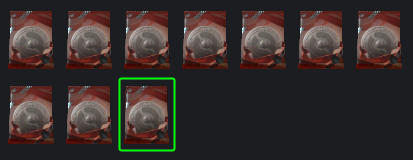
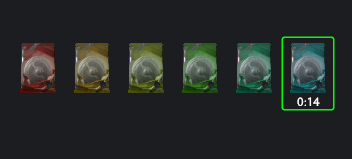
Booster colors, booster timer

diff --git a/src/content/panorama/scripts/custom_game/game_setup/game_setup.js b/src/content/panorama/scripts/custom_game/game_setup/game_setup.js
@@ -786,9 +786,31 @@ function OnGetDraftArray(table_name, key, data) {
 
         // Init booster draft
         if (optionValueList['lodOptionCommonGamemode'] == 6 && !boosterDraftInitiated && !data.boosterDraftDone) {
-            $("#boosterDraftBoosters").visible = true;
             $("#boosterDraftPile").visible = true;
             $("#pickingPhaseBuild").visible = false;
+
+            $("#boosterDraftBoosters").visible = true;
+            for (var i = 0; i < 10; i++) {
+                var newBooster = $.CreatePanel("Panel", $("#boosterDraftBoosters"), "booster"+(i+1)) 
+                newBooster.BLoadLayoutSnippet("BoosterPack");
+            }
+
+            $("#boosterDraftBoosters").Children()[$("#boosterDraftBoosters").Children().length-1].SetHasClass("current", true);
+
+            var boosters = $("#boosterDraftBoosters").Children();
+            var players = 0;
+            for (var i = 0; i < 23; i++) {
+                var info = Game.GetPlayerInfo(i);
+                if (info) {
+                    players++;
+                }
+            }
+
+            var i = 0;
+            for (var k in boosters) {
+                boosters[k].FindChildTraverse("booster").style.hueRotation = Math.floor(((360/players) * i)) + "deg;";
+                i++;
+            }
 
             var hookSet = function(setName) {
                 var enterNumber = 0;
@@ -4540,6 +4562,15 @@ function UpdateTimer() {
             }
         }
 
+        if (isBoosterDraftGamemode()) {
+            try {
+                $("#boosterDraftBoosters").Children()[$("#boosterDraftBoosters").Children().length-1].FindChildTraverse("lodBoosterPackLabel").text = placeInto.text;
+            } catch (err) {
+
+            }
+            
+        }
+
         // Review override
         if(currentPhase == PHASE_REVIEW && waitingForPrecache) {
             $("#reviewReadyButton").enabled = false;
@@ -4578,7 +4609,14 @@ function showPopupMessage(msg) {
     $('#lodPopupMessage').visible = true;
     $('#lodOptionsRoot').SetHasClass("darkened", true);
 
-    $("#lodPopupMessageImage").visible = msg == "lodBoosterDraftMessage";
+    for (var k in $("#lodPopupMessageImage").Children()) {
+        $("#lodPopupMessageImage").Children()[k].visible = false;
+    }
+    try {
+        $("#lodPopupMessageImage").FindChildTraverse(msg).visible = true;
+    } catch (err) {
+        
+    }
 }
 
 function showQuestionMessage(data) {

diff --git a/src/content/panorama/styles/custom_game/game_setup/game_setup.css b/src/content/panorama/styles/custom_game/game_setup/game_setup.css
@@ -87,7 +87,6 @@
 
 #lodPopupMessageImage {
     horizontal-align: center;
-    visibility: collapse;
 }
 
 .lodPopupMessageAcceptContainer {
@@ -2142,14 +2141,33 @@ Button:enabled:hover {
     tooltip-position: top;
 }
 
-.booster {
-    height: 90px;
-    width: 70px;
+.lodBooster {
+    height: 70px;
+    width: 65px;
 
-    padding-bottom: 3px;
+    padding-bottom: -5px;
 }
 
-.booster.current {
+.lodBoosterRoot {
+    height: 90px;
+    width: 65px;
+    flow-children: down;
+}
+
+#lodBoosterPackLabel { 
+    align: center bottom;
+    margin-right: 17px;
+    margin-left: 19px;
+    margin-bottom: 5px;
+    font-family: Radiance,FZLanTingHei-R-GBK,TH Sarabun New,YDYGO 540,Gulim,MingLiU;
+    visibility: collapse;
+}
+
+.lodBoosterRoot.current #lodBoosterPackLabel {
+    visibility: visible;
+}
+
+.lodBoosterRoot.current {
     animation-name: lodHighlightLoopDrop;
     animation-duration: 0.5s;
     animation-timing-function: ease-in-out;
